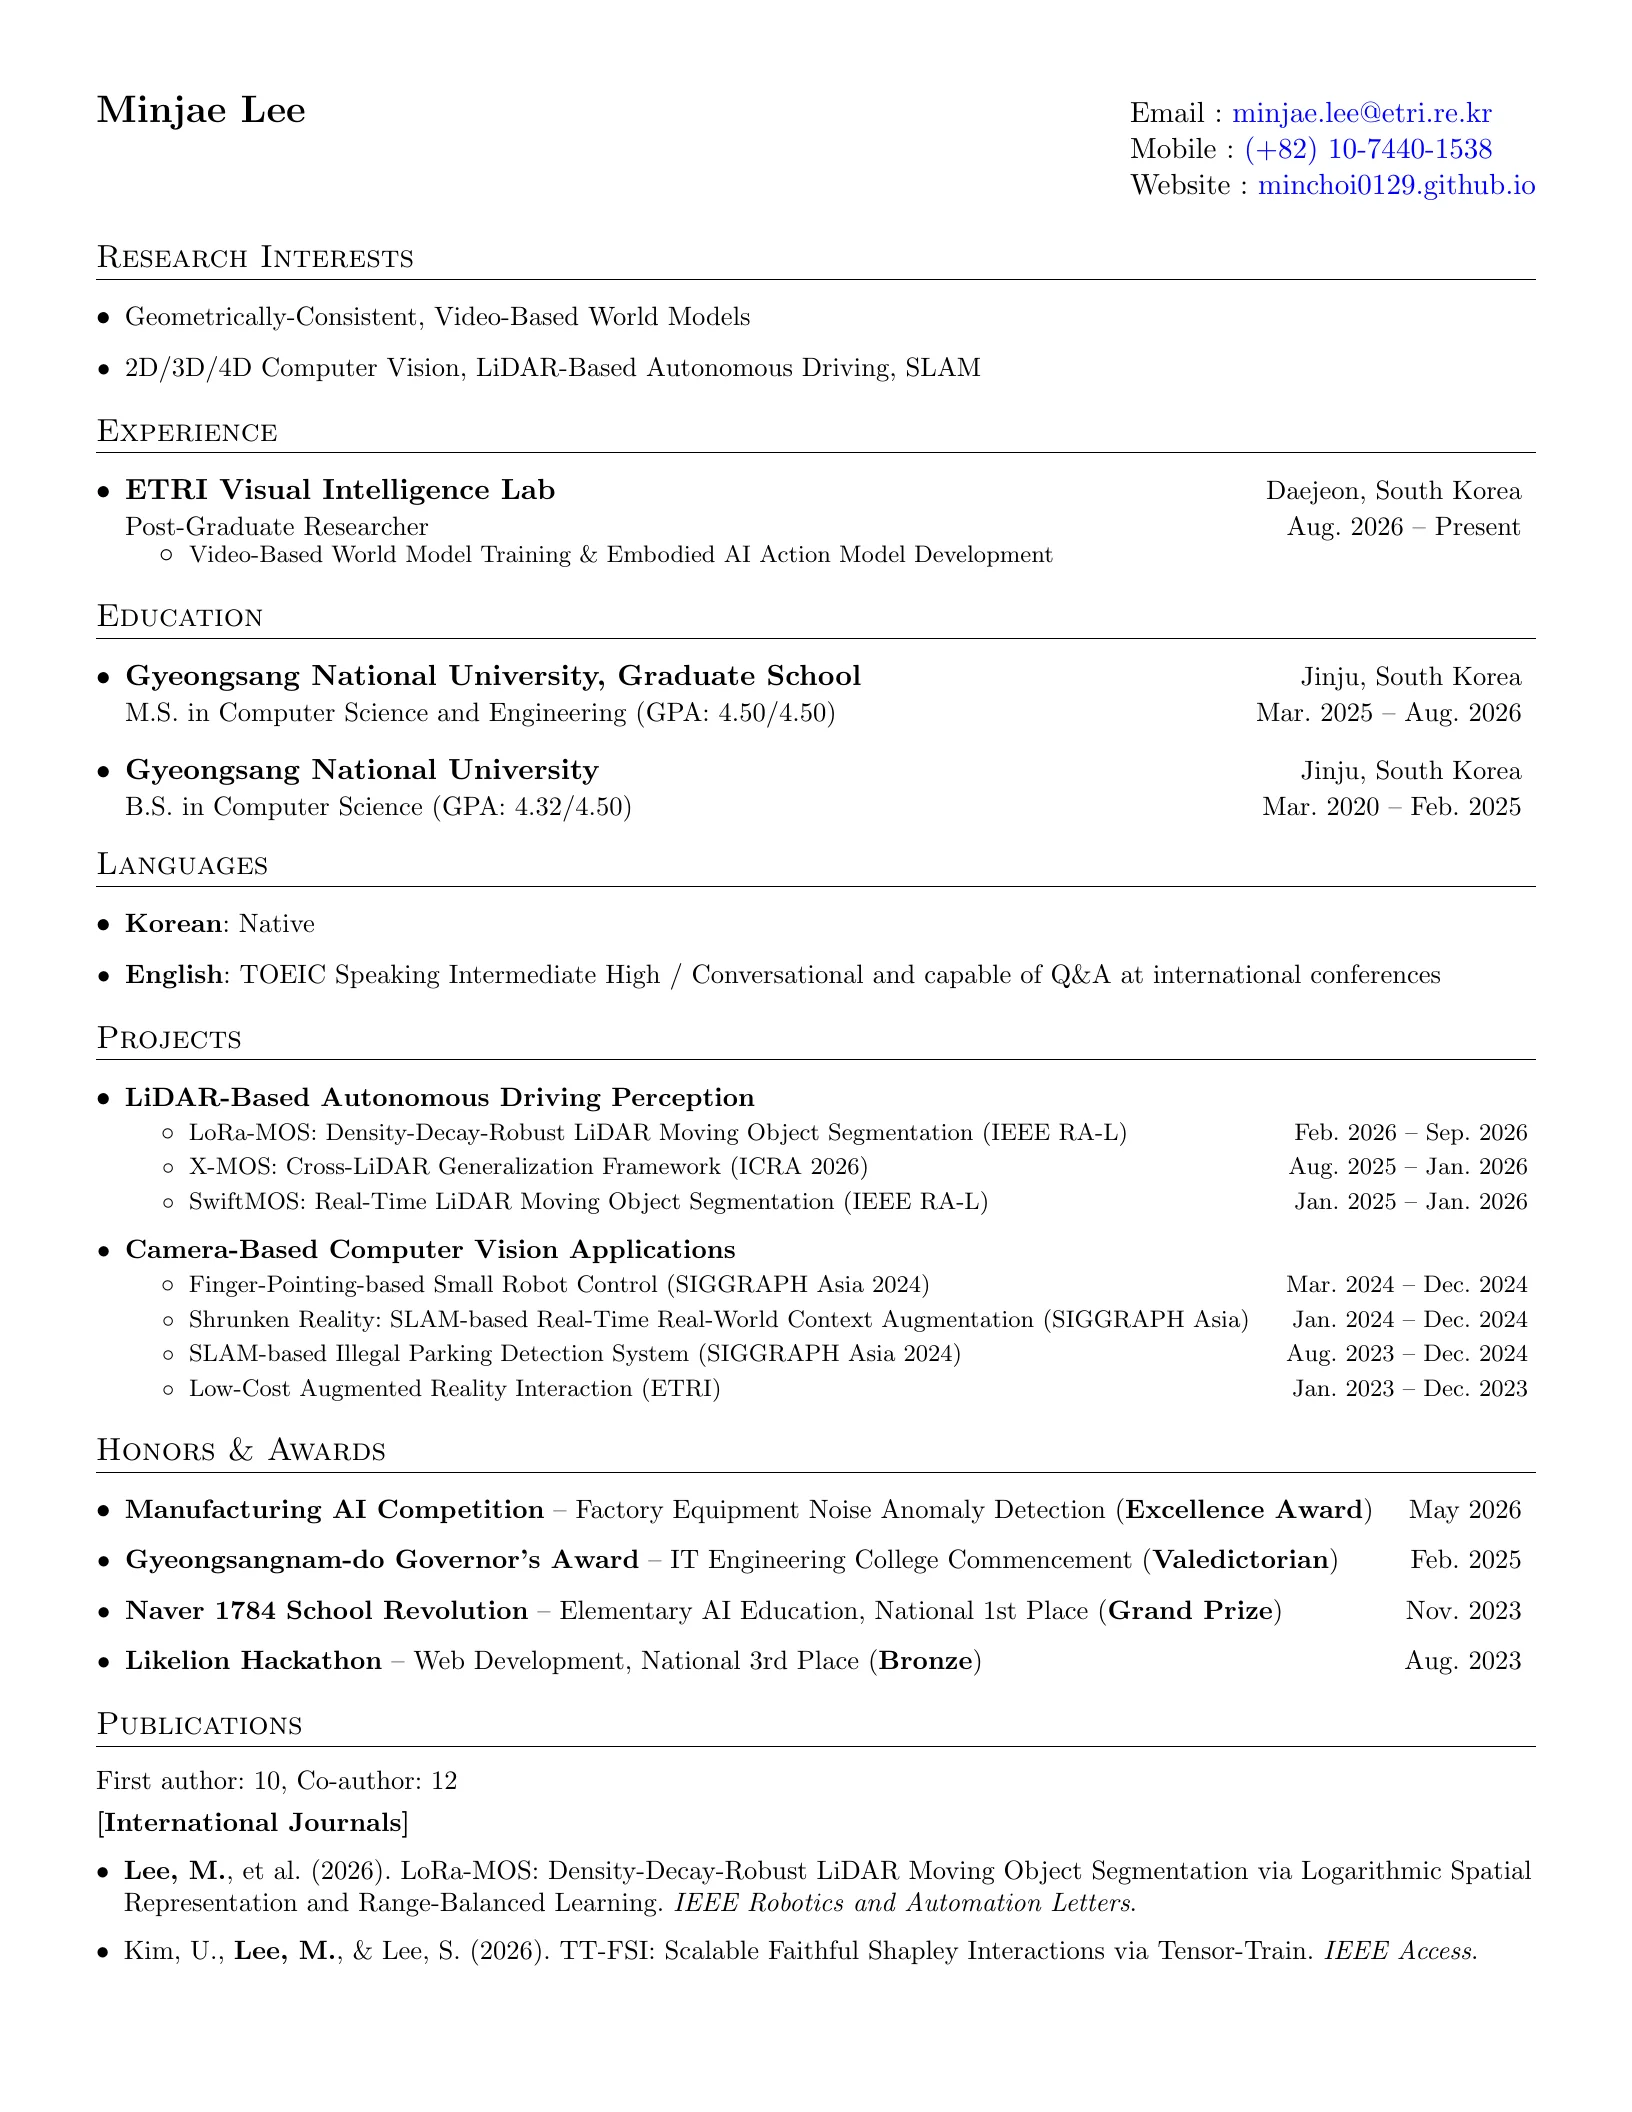
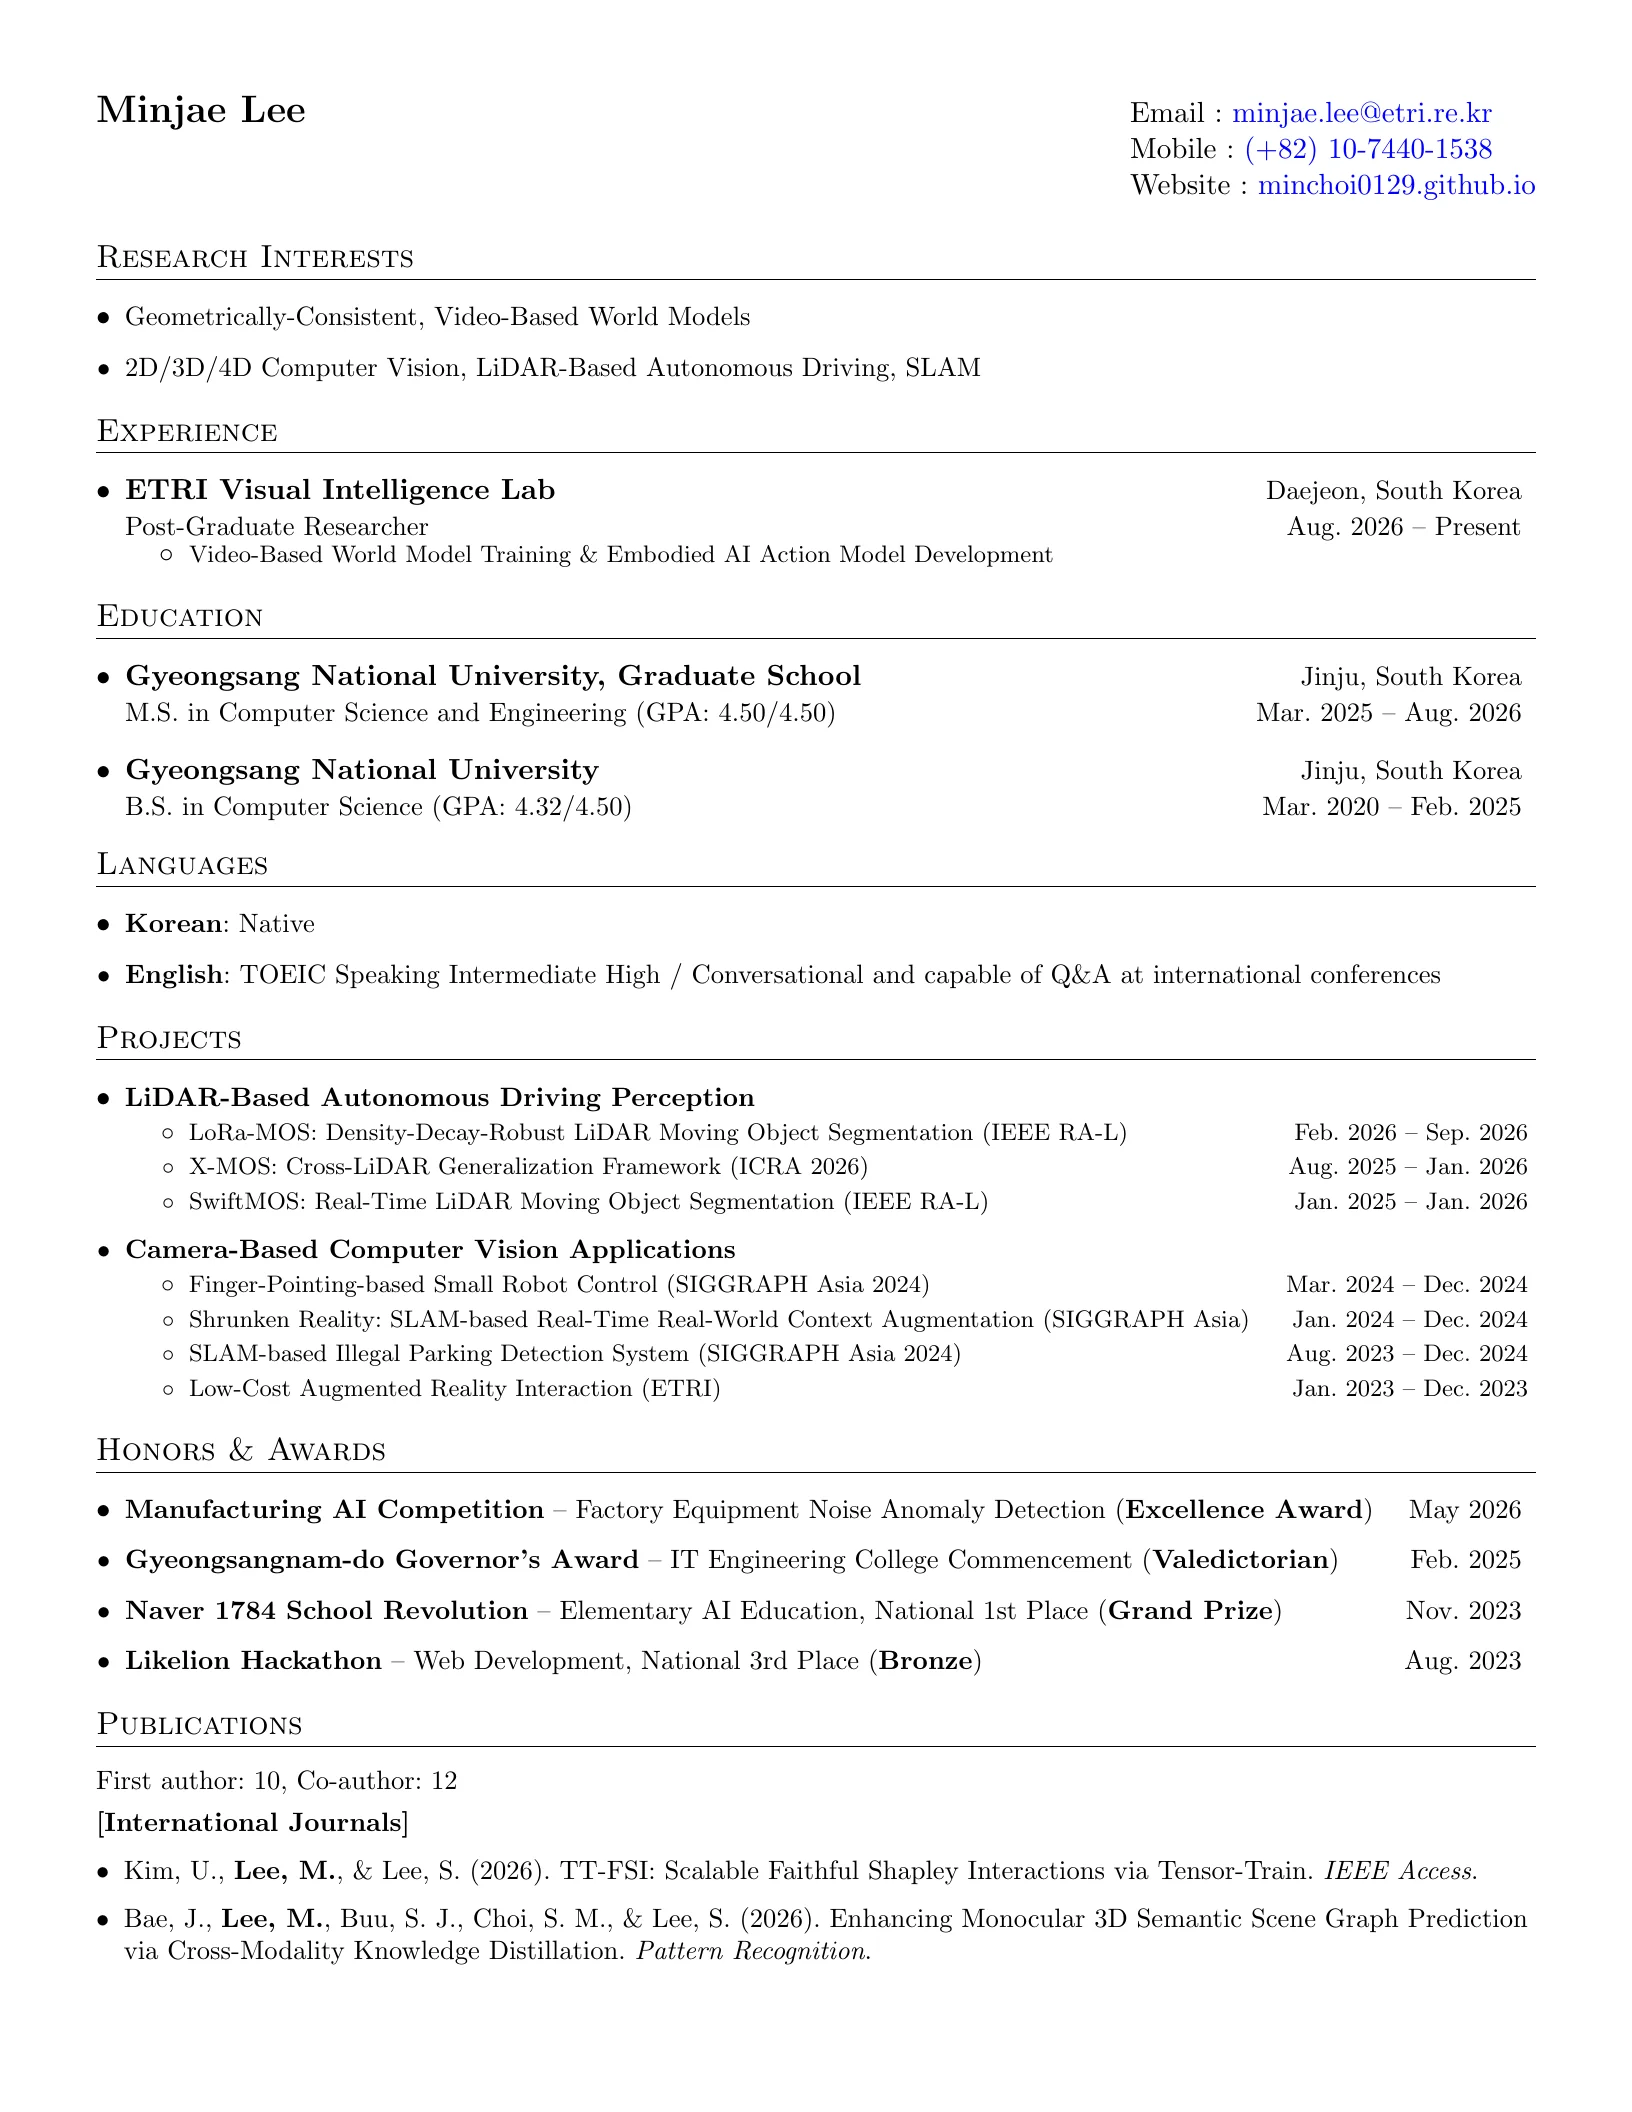
Publications, CV: list TT-FSI and scene graph above LoRa-MOS; spell out LoRa-MOS authors

Changed region(s): [[0.0625, 0.875, 0.9062, 0.9375]]

diff --git a/cv-src/en/cv.tex b/cv-src/en/cv.tex
@@ -229,9 +229,9 @@
 \vspace{4pt}
 \textbf{[International Journals]}
 \resumeSubHeadingListStart
-\resumeItem{\textbf{Lee, M.}, et al. (2026). LoRa-MOS: Density-Decay-Robust LiDAR Moving Object Segmentation via Logarithmic Spatial Representation and Range-Balanced Learning. \textit{IEEE Robotics and Automation Letters}.}
 \resumeItem{Kim, U., \textbf{Lee, M.}, \& Lee, S. (2026). TT-FSI: Scalable Faithful Shapley Interactions via Tensor-Train. \textit{IEEE Access}.}
 \resumeItem{Bae, J., \textbf{Lee, M.}, Buu, S. J., Choi, S. M., \& Lee, S. (2026). Enhancing Monocular 3D Semantic Scene Graph Prediction via Cross-Modality Knowledge Distillation. \textit{Pattern Recognition}.}
+\resumeItem{\textbf{Lee, M.}, Bae, J., Kim, J., Kim, G. W., \& Lee, S. (2026). LoRa-MOS: Density-Decay-Robust LiDAR Moving Object Segmentation via Logarithmic Spatial Representation and Range-Balanced Learning. \textit{IEEE Robotics and Automation Letters}.}
 \resumeItem{Park, S., \textbf{Lee, M.}, Kim, U., Bae, J., \& Lee, S. (2026). Early Detection of Failure Onset in 3D Printing: A Foundation-Segmentation Pipeline. \textit{Engineering Applications of Artificial Intelligence}.}
 \resumeItem{\textbf{Lee, M.}, Kim, U., Kim, G. W., \& Lee, S. (2026). SwiftMOS: A Fast and Lightweight Moving Object Segmentation via Feature Flowing Direct View Transformation. \textit{IEEE Robotics and Automation Letters}.}
 \resumeItem{\textbf{Lee, M.}, Lee, S., \& Seo, H. (2026). Enhancing Early Alzheimer's Disease Detection via Transfer Learning: From Big Structural MRI Datasets to Ethnically Distinct Small Cohorts. \textit{Applied Sciences}, 16(2), 1004.}

diff --git a/cv-src/ko/cv.tex b/cv-src/ko/cv.tex
@@ -229,9 +229,9 @@
 \vspace{4pt}
 \textbf{[International Journals]}
 \resumeSubHeadingListStart
-\resumeItem{\textbf{Lee, M.}, et al. (2026). LoRa-MOS: Density-Decay-Robust LiDAR Moving Object Segmentation via Logarithmic Spatial Representation and Range-Balanced Learning. \textit{IEEE Robotics and Automation Letters}.}
 \resumeItem{Kim, U., \textbf{Lee, M.}, \& Lee, S. (2026). TT-FSI: Scalable Faithful Shapley Interactions via Tensor-Train. \textit{IEEE Access}.}
 \resumeItem{Bae, J., \textbf{Lee, M.}, Buu, S. J., Choi, S. M., \& Lee, S. (2026). Enhancing Monocular 3D Semantic Scene Graph Prediction via Cross-Modality Knowledge Distillation. \textit{Pattern Recognition}.}
+\resumeItem{\textbf{Lee, M.}, Bae, J., Kim, J., Kim, G. W., \& Lee, S. (2026). LoRa-MOS: Density-Decay-Robust LiDAR Moving Object Segmentation via Logarithmic Spatial Representation and Range-Balanced Learning. \textit{IEEE Robotics and Automation Letters}.}
 \resumeItem{Park, S., \textbf{Lee, M.}, Kim, U., Bae, J., \& Lee, S. (2026). Early Detection of Failure Onset in 3D Printing: A Foundation-Segmentation Pipeline. \textit{Engineering Applications of Artificial Intelligence}.}
 \resumeItem{\textbf{Lee, M.}, Kim, U., Kim, G. W., \& Lee, S. (2026). SwiftMOS: A Fast and Lightweight Moving Object Segmentation via Feature Flowing Direct View Transformation. \textit{IEEE Robotics and Automation Letters}.}
 \resumeItem{\textbf{Lee, M.}, Lee, S., \& Seo, H. (2026). Enhancing Early Alzheimer's Disease Detection via Transfer Learning: From Big Structural MRI Datasets to Ethnically Distinct Small Cohorts. \textit{Applied Sciences}, 16(2), 1004.}

diff --git a/publications.md b/publications.md
@@ -25,9 +25,9 @@ title: Publications
 
 ## <span class="lang-en">International Journals</span><span class="lang-ko">국제 저널</span>
 
-- **Minjae Lee**, et al. LoRa-MOS: Density-Decay-Robust LiDAR Moving Object Segmentation via Logarithmic Spatial Representation and Range-Balanced Learning. *IEEE Robotics and Automation Letters (RA-L)*, 2026.
 - U. Kim, **Minjae Lee**, and S. Lee. TT-FSI: Scalable Faithful Shapley Interactions via Tensor-Train. *IEEE Access*, 2026.
 - J. Bae, **Minjae Lee**, S. J. Buu, S. M. Choi, and S. Lee. Enhancing Monocular 3D Semantic Scene Graph Prediction via Cross-Modality Knowledge Distillation. *Pattern Recognition*, 2026.
+- **Minjae Lee**, J. Bae, J. Kim, G. W. Kim, and S. Lee. LoRa-MOS: Density-Decay-Robust LiDAR Moving Object Segmentation via Logarithmic Spatial Representation and Range-Balanced Learning. *IEEE Robotics and Automation Letters (RA-L)*, 2026.
 - S. Park, **Minjae Lee**, U. Kim, J. Bae, and S. Lee. Early Detection of Failure Onset in 3D Printing: A Foundation-Segmentation Pipeline. *Engineering Applications of Artificial Intelligence (EAAI)*, 2026.
 - **Minjae Lee**, U. Kim, G. W. Kim, and S. Lee. SwiftMOS: A Fast and Lightweight Moving Object Segmentation via Feature Flowing Direct View Transformation. *IEEE Robotics and Automation Letters (RA-L)*, 2026.
 - **Minjae Lee**, S. Lee, and H. Seo. Enhancing Early Alzheimer's Disease Detection via Transfer Learning: From Big Structural MRI Datasets to Ethnically Distinct Small Cohorts. *Applied Sciences*, 16(2), 1004, 2026.

diff --git a/_projects/lora-mos.md b/_projects/lora-mos.md
@@ -8,12 +8,12 @@ order: 4
 ---
 
 <div class="lang-en" markdown="1">
-**LoRa-MOS: Density-Decay-Robust LiDAR Moving Object Segmentation via Logarithmic Spatial Representation and Range-Balanced Learning.** Minjae Lee, et al. *IEEE Robotics and Automation Letters (RA-L)*, 2026.
+**LoRa-MOS: Density-Decay-Robust LiDAR Moving Object Segmentation via Logarithmic Spatial Representation and Range-Balanced Learning.** Minjae Lee, J. Bae, J. Kim, G. W. Kim, and S. Lee. *IEEE Robotics and Automation Letters (RA-L)*, 2026.
 
 Details, figures, and a demo video will be added here.
 </div>
 <div class="lang-ko" markdown="1">
-**LoRa-MOS: 로그 공간 표현과 거리 균형 학습 기반의 밀도 감쇠 강건 LiDAR 이동 객체 분할.** 이민재 외. *IEEE Robotics and Automation Letters (RA-L)*, 2026.
+**LoRa-MOS: 로그 공간 표현과 거리 균형 학습 기반의 밀도 감쇠 강건 LiDAR 이동 객체 분할.** 이민재, 배지호, 김종민, 김광원, 이수원. *IEEE Robotics and Automation Letters (RA-L)*, 2026.
 
 상세 설명과 그림, 시연 영상은 곧 추가합니다.
 </div>
